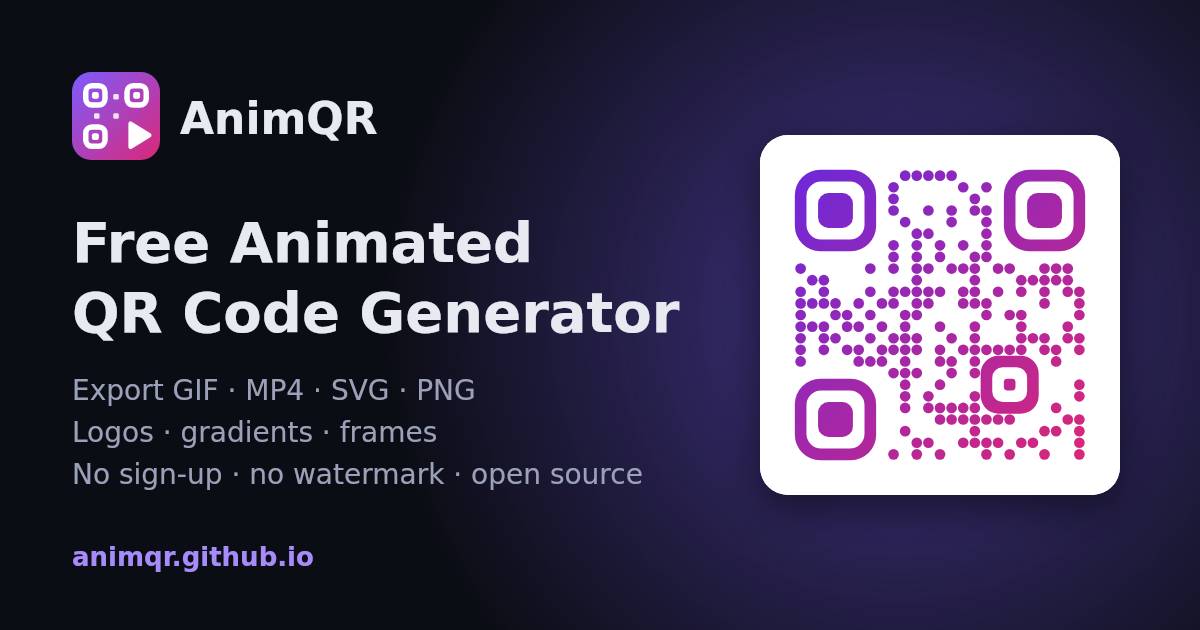
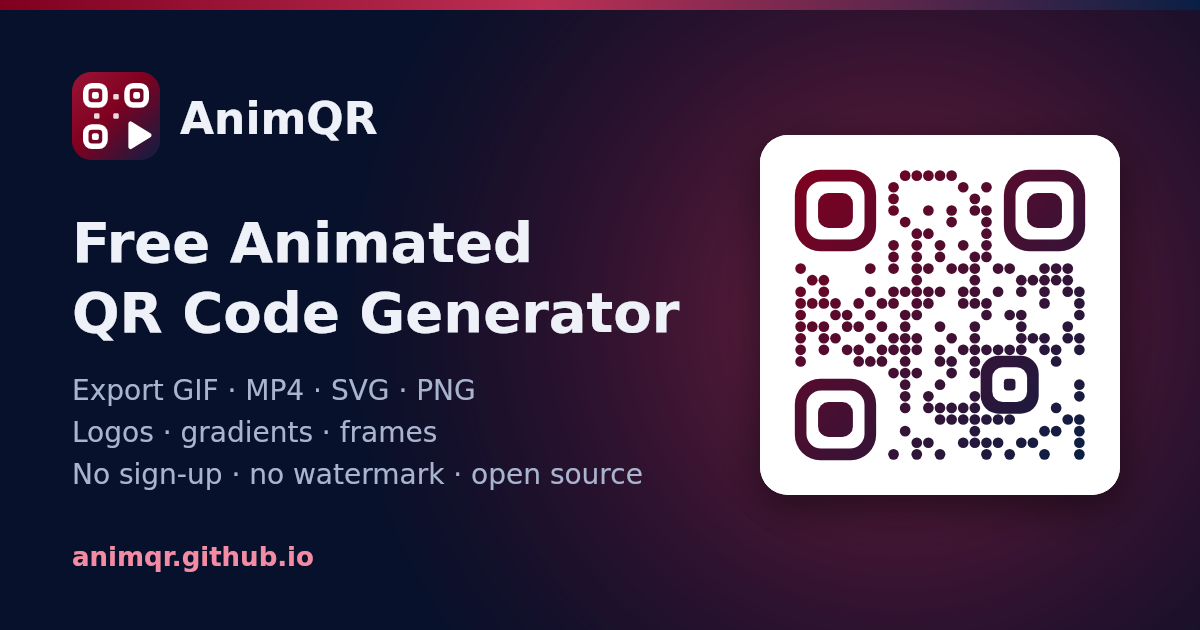
Retheme the app to maroon and navy blue
- Theme tokens: navy backgrounds/text with a maroon accent; separate
  accent-ink for text and focus rings so contrast passes WCAG in both
  light and dark mode (Lighthouse accessibility 100 in each)
- Maroon→navy brand stripe in the header
- Default code colour navy, default frame maroon; gradient toggle starts
  maroon→navy
- Built-in presets and landing-page styles reworked in the new palette;
  every preset is now covered by the scannability tests
- Icons, favicon, manifest colours and social image regenerated in maroon
  and navy (the social image's QR code still decodes)
- Docs/README examples use the new colours

Claude-Session: https://claude.ai/code/session_01G5W4HvgiUvWcV5Zbb7dAf4

diff --git a/src/lib/presets.ts b/src/lib/presets.ts
@@ -4,86 +4,89 @@ export type StylePreset = { name: string; style: Partial<QRConfig> };
 
 /** Style-only presets: applying one never changes the encoded content. */
 export const BUILTIN_PRESETS: StylePreset[] = [
-  { name: "Classic", style: { fg: "#111827", bg: "#ffffff", gradient: null, module: "square", eye: "square", eyeColor: "", frame: "none", anim: "none" } },
   {
-    name: "Sunset",
+    name: "Maroon & Navy",
     style: {
-      bg: "#fff7ed",
-      gradient: { type: "linear", angle: 45, stops: ["#ea580c", "#be185d"] },
+      fg: "#0a1f44",
+      bg: "#ffffff",
+      gradient: { type: "linear", angle: 45, stops: ["#800020", "#0a1f44"] },
       module: "dots",
       eye: "rounded",
-      eyeColor: "#9a3412",
+      eyeColor: "#800020",
       frame: "none",
       anim: "pulse",
     },
   },
+  { name: "Classic navy", style: { fg: "#0a1f44", bg: "#ffffff", gradient: null, module: "square", eye: "square", eyeColor: "", frame: "none", anim: "none" } },
   {
-    name: "Ocean wave",
+    name: "Maroon wave",
     style: {
-      bg: "#f0f9ff",
-      gradient: { type: "linear", angle: 90, stops: ["#0369a1", "#0e7490"] },
+      fg: "#800020",
+      bg: "#fdf6f7",
+      gradient: null,
       module: "rounded",
       eye: "circle",
-      eyeColor: "",
+      eyeColor: "#0a1f44",
       frame: "rounded",
-      frameColor: "#0c4a6e",
+      frameColor: "#0a1f44",
       anim: "wave",
     },
   },
   {
-    name: "Neon scan",
+    name: "Midnight scan",
     style: {
-      fg: "#22d3ee",
-      bg: "#0b1020",
-      gradient: { type: "linear", angle: 135, stops: ["#22d3ee", "#a78bfa"] },
+      fg: "#f8c9d4",
+      bg: "#0a1f44",
+      gradient: { type: "linear", angle: 135, stops: ["#ffe1e8", "#f28ba3"] },
       module: "square",
       eye: "leaf",
-      eyeColor: "#f0abfc",
+      eyeColor: "#ffffff",
       frame: "none",
       anim: "scan",
     },
   },
   {
-    name: "Rainbow",
-    style: { fg: "#7c2d12", bg: "#ffffff", gradient: null, module: "rounded", eye: "rounded", eyeColor: "", frame: "none", anim: "colorCycle" },
+    name: "Colour cycle",
+    style: { fg: "#800020", bg: "#ffffff", gradient: null, module: "rounded", eye: "rounded", eyeColor: "", frame: "none", anim: "colorCycle" },
   },
   {
     name: "Scan me",
     style: {
-      fg: "#1e1b4b",
+      fg: "#0a1f44",
       bg: "#ffffff",
       gradient: null,
       module: "vbars",
       eye: "rounded",
-      eyeColor: "#4f46e5",
+      eyeColor: "#800020",
       frame: "label",
-      frameColor: "#4f46e5",
+      frameColor: "#800020",
       frameText: "SCAN ME",
       anim: "none",
     },
   },
   {
-    name: "Starfield",
+    name: "Royal stars",
     style: {
-      fg: "#fbbf24",
-      bg: "#111827",
-      gradient: { type: "radial", angle: 0, stops: ["#fde68a", "#f59e0b"] },
+      fg: "#0a1f44",
+      bg: "#ffffff",
+      gradient: { type: "radial", angle: 0, stops: ["#800020", "#0a1f44"] },
       module: "star",
       eye: "circle",
-      eyeColor: "#fde68a",
-      frame: "none",
+      eyeColor: "#0a1f44",
+      frame: "square",
+      frameColor: "#0a1f44",
       anim: "rotate",
     },
   },
   {
     name: "Particles",
     style: {
-      fg: "#065f46",
-      bg: "#ecfdf5",
-      gradient: { type: "linear", angle: 0, stops: ["#047857", "#0f766e"] },
+      fg: "#0a1f44",
+      bg: "#f5f7fc",
+      gradient: { type: "linear", angle: 0, stops: ["#0a1f44", "#5c0017"] },
       module: "dots",
       eye: "rounded",
-      eyeColor: "",
+      eyeColor: "#800020",
       frame: "none",
       anim: "particle",
     },

diff --git a/src/lib/landing.ts b/src/lib/landing.ts
@@ -79,7 +79,7 @@ export const LANDING_PAGES: LandingPage[] = [
       contentType: "url",
       fields: {},
       style: {
-        gradient: { type: "linear", angle: 45, stops: ["#6d28d9", "#db2777"] },
+        gradient: { type: "linear", angle: 45, stops: ["#800020", "#0a1f44"] },
         module: "dots",
         eye: "rounded",
         anim: "pulse",
@@ -112,7 +112,7 @@ export const LANDING_PAGES: LandingPage[] = [
     defaults: {
       contentType: "url",
       fields: {},
-      style: { fg: "#0f172a", module: "rounded", eye: "circle", anim: "wave", fps: 20, format: "gif" },
+      style: { fg: "#0a1f44", eyeColor: "#800020", module: "rounded", eye: "circle", anim: "wave", fps: 20, format: "gif" },
     },
     steps: ["Enter the link or text to encode.", ...HOW_TO_STYLE],
     faq: [
@@ -140,7 +140,7 @@ export const LANDING_PAGES: LandingPage[] = [
     defaults: {
       contentType: "url",
       fields: {},
-      style: { ec: "H", module: "rounded", eye: "rounded", fg: "#1e3a8a", eyeColor: "#2563eb" },
+      style: { ec: "H", module: "rounded", eye: "rounded", fg: "#0a1f44", eyeColor: "#800020" },
     },
     steps: [
       "Enter your URL.",
@@ -173,7 +173,7 @@ export const LANDING_PAGES: LandingPage[] = [
     defaults: {
       contentType: "wifi",
       fields: { wifi: { ssid: "Guest Wi-Fi", password: "welcome123", security: "WPA", hidden: false } },
-      style: { frame: "label", frameText: "SCAN TO JOIN WI-FI", frameColor: "#0f766e", fg: "#134e4a", module: "rounded", eye: "rounded" },
+      style: { frame: "label", frameText: "SCAN TO JOIN WI-FI", frameColor: "#800020", fg: "#0a1f44", module: "rounded", eye: "rounded" },
     },
     steps: [
       "Enter your network name (SSID), security type and password.",
@@ -216,7 +216,7 @@ export const LANDING_PAGES: LandingPage[] = [
           address: "",
         },
       },
-      style: { ec: "M", fg: "#1f2937", module: "square", eye: "leaf", eyeColor: "#7c3aed" },
+      style: { ec: "M", fg: "#0a1f44", module: "square", eye: "leaf", eyeColor: "#800020" },
     },
     steps: [
       "Fill in your name, company, phone, email and website.",

diff --git a/app/globals.css b/app/globals.css
@@ -1,24 +1,33 @@
 @import "tailwindcss";
 
+/*
+ * Theme: navy blue + maroon.
+ * Navy carries backgrounds and text; maroon is the accent (buttons, active states, highlights).
+ * `accent-ink` is the accent used for text and focus rings, tuned for contrast on each background.
+ */
 @theme {
-  --color-bg: #0b0d14;
-  --color-surface: #121521;
-  --color-surface-2: #181c2b;
-  --color-line: #2a3045;
-  --color-fg: #e8eaf2;
-  --color-muted: #9aa1b8;
-  --color-accent: #7c5cff;
+  --color-bg: #07112b;
+  --color-surface: #0c1a3d;
+  --color-surface-2: #11224d;
+  --color-line: #213666;
+  --color-fg: #eef1f8;
+  --color-muted: #a9b4cf;
+  --color-accent: #bd2f55;
+  --color-accent-ink: #f28ba3;
+  --color-navy: #0a1f44;
+  --color-maroon: #800020;
 }
 
 @media (prefers-color-scheme: light) {
   :root:not(.dark) {
-    --color-bg: #f7f7fb;
+    --color-bg: #f7f5f6;
     --color-surface: #ffffff;
     --color-surface-2: #ffffff;
-    --color-line: #dcdfea;
-    --color-fg: #151827;
-    --color-muted: #5d6479;
-    --color-accent: #6a48f5;
+    --color-line: #dcdde8;
+    --color-fg: #0a1f44;
+    --color-muted: #4a5675;
+    --color-accent: #800020;
+    --color-accent-ink: #800020;
   }
 }
 
@@ -30,6 +39,10 @@ body {
   background: var(--color-bg);
   color: var(--color-fg);
   -webkit-tap-highlight-color: transparent;
+}
+
+::selection {
+  background: color-mix(in srgb, var(--color-accent) 35%, transparent);
 }
 
 html.embed body {
@@ -48,7 +61,7 @@ html.embed body {
 }
 
 :focus-visible {
-  outline: 2px solid var(--color-accent);
+  outline: 2px solid var(--color-accent-ink);
   outline-offset: 2px;
 }
 

diff --git a/app/docs/page.tsx b/app/docs/page.tsx
@@ -25,7 +25,7 @@ const PARAMS: [string, string, string][] = [
   ["gradient", "linear-<angle>-<from>-<to> or radial-<from>-<to>", "linear-45-ff0-f0f"],
   ["module", list(MODULE_SHAPES), "dots"],
   ["eye", list(EYE_SHAPES), "rounded"],
-  ["eyeColor", "Colour of the three corner eyes", "4f46e5"],
+  ["eyeColor", "Colour of the three corner eyes", "800020"],
   ["logo", "http(s) image URL — the server must send CORS headers", "https://…/logo.png"],
   ["logoSize", `Logo width as a fraction of the code (${LIMITS.logoSize[0]}–${LIMITS.logoSize[1]})`, "0.22"],
   ["frame", list(FRAMES), "label"],
@@ -43,8 +43,8 @@ const EXAMPLES = [
   "?data=https%3A%2F%2Fexample.com",
   "?text=Hello%20World&fg=%23ff0000&bg=%23ffffff&size=400",
   "generate/?data=WIFI:T:WPA;S:MyNetwork;P:password123;;&ec=H&anim=pulse",
-  "?data=https%3A%2F%2Fgithub.com&module=dots&eye=circle&gradient=linear-45-0ea5e9-7c3aed&anim=wave",
-  "?data=Hello&frame=label&frameText=SCAN%20ME&frameColor=4f46e5&module=vbars",
+  "?data=https%3A%2F%2Fgithub.com&module=dots&eye=circle&gradient=linear-45-800020-0a1f44&anim=wave",
+  "?data=Hello&frame=label&frameText=SCAN%20ME&frameColor=800020&module=vbars",
   "?data=https%3A%2F%2Fexample.com&anim=colorCycle&embed=1",
 ];
 

diff --git a/tests/scannability.test.ts b/tests/scannability.test.ts
@@ -8,6 +8,7 @@ import { describe, expect, it } from "vitest";
 import { ANIMATIONS, EYE_SHAPES, MODULE_SHAPES, SAFE_ANIMATIONS, sanitizeConfig, type QRConfig } from "@/lib/config";
 import { createMatrix, alignmentPositions } from "@/lib/qr/matrix";
 import { buildModel, renderFrame } from "@/lib/qr/render";
+import { BUILTIN_PRESETS } from "@/lib/presets";
 
 (globalThis as unknown as { Path2D: typeof Path2D }).Path2D = Path2D;
 
@@ -93,6 +94,12 @@ describe("scannability", () => {
       const img = ctx.getImageData(0, 0, canvas.width, canvas.height);
       expect(jsQR(img.data, img.width, img.height)?.data, `ec=${ec}`).toBe(DATA);
     }
+  });
+
+  it.each(BUILTIN_PRESETS.map((p) => [p.name, p]))("built-in preset %s scans", (_, p) => {
+    const config = sanitizeConfig({ ...p.style, data: DATA });
+    const frames = config.anim === "reveal" || config.anim === "particle" ? [0.7] : config.anim === "none" ? [0] : FRAMES;
+    for (const t of frames) expect(decodes(config, t), `t=${t}`).toBe(true);
   });
 
   it("colour cycle keeps contrast on every frame", () => {

diff --git a/src/components/Shell.tsx b/src/components/Shell.tsx
@@ -11,6 +11,7 @@ export function Shell({ children }: { children: ReactNode }) {
       <a href="#main" className="embed-hide sr-only focus:not-sr-only focus:fixed focus:left-4 focus:top-4 focus:z-50 focus:rounded-lg focus:bg-accent focus:px-3 focus:py-2 focus:text-white">
         Skip to content
       </a>
+      <div aria-hidden className="embed-hide h-1 bg-[linear-gradient(90deg,var(--color-maroon),var(--color-accent)_45%,var(--color-navy))]" />
       <header className="mx-auto flex max-w-6xl items-center justify-between gap-4 px-4 py-5">
         <Link href="/" className="flex items-center gap-2.5" aria-label="AnimQR home">
           {/* eslint-disable-next-line @next/next/no-img-element */}

diff --git a/src/lib/site.ts b/src/lib/site.ts
@@ -47,8 +47,10 @@ export const SITE = {
   author: env("NEXT_PUBLIC_AUTHOR") ?? "AnimQR contributors",
   /** Twitter/X handle including "@", optional. */
   twitter: env("NEXT_PUBLIC_TWITTER_HANDLE"),
-  themeColor: { light: "#f7f7fb", dark: "#0b0d14" },
-  brandColor: "#7c5cff",
+  themeColor: { light: "#f7f5f6", dark: "#07112b" },
+  /** Maroon — the accent colour. Navy (#0a1f44) is the base colour. */
+  brandColor: "#800020",
+  navyColor: "#0a1f44",
   /** Search console verification tokens (the `content` value of the meta tag each tool gives you). */
   verification: {
     google: env("NEXT_PUBLIC_GOOGLE_SITE_VERIFICATION"),

diff --git a/src/components/seo/SeoContent.tsx b/src/components/seo/SeoContent.tsx
@@ -63,7 +63,7 @@ export function SeoContent({
           {faq.map((f) => (
             <details key={f.q} className="group p-4">
               <summary className="cursor-pointer list-none font-medium marker:hidden">
-                <span className="mr-2 inline-block text-accent transition group-open:rotate-90">›</span>
+                <span className="mr-2 inline-block text-accent-ink transition group-open:rotate-90">›</span>
                 {f.q}
               </summary>
               <p className="mt-2 pl-5 text-sm text-muted">{f.a}</p>

diff --git a/src/components/StylePanel.tsx b/src/components/StylePanel.tsx
@@ -162,7 +162,7 @@ export function StylePanel() {
         <Toggle
           label="Gradient foreground"
           checked={!!gradient}
-          onChange={(on) => update({ gradient: on ? { type: "linear", angle: 45, stops: [config.fg, "#7c3aed"] } : null })}
+          onChange={(on) => update({ gradient: on ? { type: "linear", angle: 45, stops: ["#800020", config.fg === "#800020" ? "#0a1f44" : config.fg] } : null })}
         />
         {gradient && (
           <div className="space-y-3 rounded-lg border border-line p-3">

diff --git a/src/lib/config.ts b/src/lib/config.ts
@@ -71,7 +71,7 @@ export const DEFAULT_CONFIG: QRConfig = {
   ec: "M",
   size: 512,
   margin: 4,
-  fg: "#111827",
+  fg: "#0a1f44",
   bg: "#ffffff",
   gradient: null,
   module: "square",
@@ -81,7 +81,7 @@ export const DEFAULT_CONFIG: QRConfig = {
   logoSize: 0.22,
   frame: "none",
   frameText: "SCAN ME",
-  frameColor: "#111827",
+  frameColor: "#800020",
   anim: "none",
   duration: 2000,
   fps: 15,

diff --git a/README.md b/README.md
@@ -28,7 +28,7 @@ Open the app with a `data` (or `text`) parameter and it generates the code immed
 https://animqr.github.io/?data=https%3A%2F%2Fexample.com
 https://animqr.github.io/?text=Hello%20World&fg=%23ff0000&bg=%23ffffff&size=400
 https://animqr.github.io/generate/?data=WIFI:T:WPA;S:MyNetwork;P:password123;;&ec=H&anim=pulse
-https://animqr.github.io/?data=https%3A%2F%2Fgithub.com&module=dots&eye=circle&gradient=linear-45-0ea5e9-7c3aed&anim=wave
+https://animqr.github.io/?data=https%3A%2F%2Fgithub.com&module=dots&eye=circle&gradient=linear-45-800020-0a1f44&anim=wave
 https://animqr.github.io/?c=N4IgLgpg...   (full compressed config, produced by "Copy shareable link")
 ```
 
@@ -42,7 +42,7 @@ https://animqr.github.io/?c=N4IgLgpg...   (full compressed config, produced by "
 | `gradient` | `linear-<angle>-<from>-<to>` or `radial-<from>-<to>` | `linear-45-ff0-f0f` |
 | `module` | `square` `rounded` `dots` `diamond` `star` `vbars` `hbars` | `dots` |
 | `eye` | `square` `rounded` `circle` `leaf` | `rounded` |
-| `eyeColor` | Corner-eye colour | `4f46e5` |
+| `eyeColor` | Corner-eye colour | `800020` |
 | `logo` | http(s) image URL (the server must send CORS headers) | `https://…/logo.png` |
 | `logoSize` | Logo width as a fraction of the code (0.08–0.3, capped by `ec`) | `0.22` |
 | `frame` | `none` `square` `rounded` `label` | `label` |
